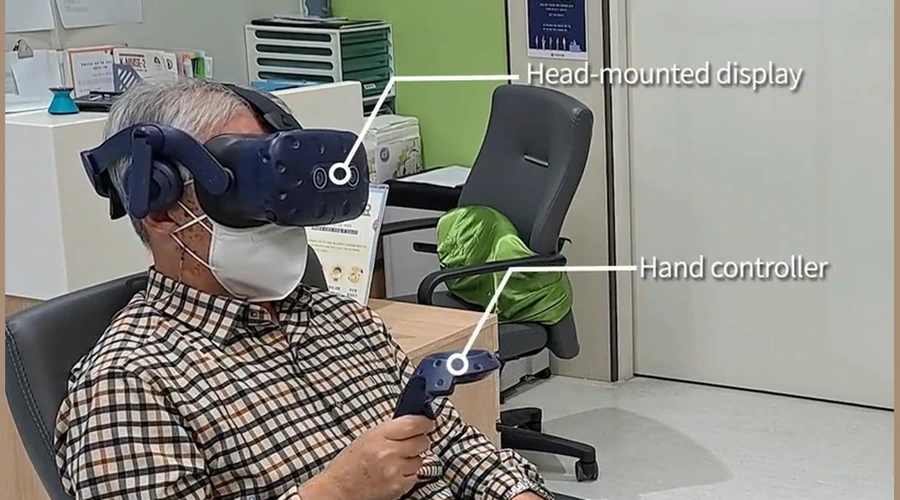
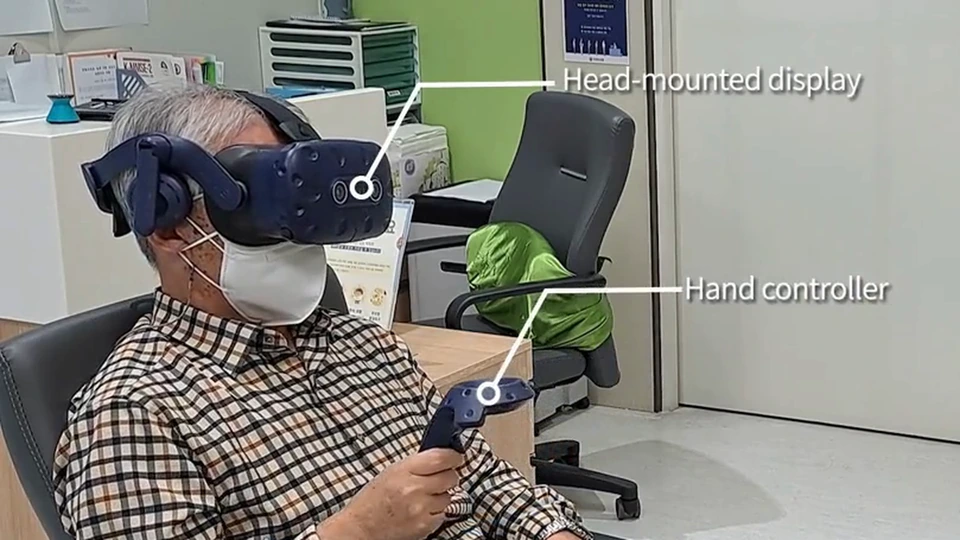
Give the home cards the shape of the pictures in them
The card image box was a fixed 124px tall whatever the column was wide. At three
columns that is a slot of about 327 by 124 - two and a half to one - holding a
16:9 picture, and object-fit: cover did what it is supposed to do: filled the
slot and threw away the top and bottom of every one. That is why an equation
appeared with its first line missing and the report showed a band of two cards
with their headings gone.

The slot takes aspect-ratio 16/9 now and its height follows the column, so the
picture fits it exactly and there is nothing left to crop. The thumbnails are
generated at 960x540 rather than 900x500 for the same reason - at 1.8 against
1.778 the browser was still shaving a sliver off the sides.

I had been fixing this in the wrong place: the last two rounds re-cut the source
images to stop the cards looking broken, when the cards were cropping whatever
they were given.

diff --git a/index.html b/index.html
@@ -22,7 +22,7 @@
   <meta name="twitter:card" content="summary_large_image">
   <link rel="preload" href="/assets/fonts/inter-latin.woff2" as="font" type="font/woff2" crossorigin>
   <link rel="preload" href="/assets/fonts/newsreader-latin.woff2" as="font" type="font/woff2" crossorigin>
-  <link rel="stylesheet" href="/assets/site.css?v=9452ece1">
+  <link rel="stylesheet" href="/assets/site.css?v=fbcbad25">
   <link rel="stylesheet" href="/assets/demos/watch.css?v=a7e0fa1c">
   <script src="/assets/site.js?v=b06142de" defer></script>
   <script type="application/ld+json">{"@context":"https://schema.org","@type":"Person","name":"Bogyeom Park","alternateName":["박보겸","Hyobin Park"],"jobTitle":"Ph.D. Student","identifier":{"@type":"PropertyValue","propertyID":"ORCID","value":"0009-0005-3046-9621"},"affiliation":{"@type":"Organization","name":"Seoul National University of Science and Technology","department":"Human-centered Artificial Intelligence Lab"},"worksFor":{"@type":"Organization","name":"Seoul National University of Science and Technology"},"url":"https://bogyeompark.github.io/","image":"https://bogyeompark.github.io/assets/og-card.jpg","email":"mailto:bogyeom@seoultech.ac.kr","sameAs":["https://scholar.google.com/citations?user=HusX3nUAAAAJ&hl=en","https://orcid.org/0009-0005-3046-9621","https://github.com/BogyeomPark"],"knowsAbout":["Agentic AI","Human-AI Interaction","AI in Education","Learning Analytics","Accessibility"]}</script>
@@ -108,17 +108,17 @@
         <div class="section-heading"><h2>Projects</h2><a href="/projects/">All projects &rarr;</a></div>
         <div class="work-grid">
           <a class="work" href="/projects/#ai-tutoring">
-            <img src="/assets/projects/ai-tutoring-cluney/thumb.webp" width="900" height="500" loading="lazy" decoding="async" alt="The tutoring system's problem view with a student's handwritten solution">
+            <img src="/assets/projects/ai-tutoring-cluney/thumb.webp" width="960" height="540" loading="lazy" decoding="async" alt="The tutoring system's problem view with a student's handwritten solution">
             <span class="work-venue">Tutorus Labs &middot; 2026</span>
             <h3>Usability Evaluation of a Compound AI Tutoring System</h3>
           </a>
           <a class="work" href="/projects/#agentic-career">
-            <img src="/assets/projects/agentic-career-keris/thumb.webp" width="900" height="500" loading="lazy" decoding="async" alt="Two career directions inferred from a student's school record">
+            <img src="/assets/projects/agentic-career-keris/thumb.webp" width="960" height="540" loading="lazy" decoding="async" alt="Two career directions inferred from a student's school record">
             <span class="work-venue">KERIS &middot; 2025</span>
             <h3>Agentic AI for Personalized Career, Admission, and Counseling Support</h3>
           </a>
           <a class="work" href="/projects/#vr-dementia">
-            <img src="/assets/projects/vr-dementia-biomarker/thumb.webp" width="900" height="500" loading="lazy" decoding="async" alt="A participant seated in the virtual kiosk task wearing a head-mounted display">
+            <img src="/assets/projects/vr-dementia-biomarker/thumb.webp" width="960" height="540" loading="lazy" decoding="async" alt="A participant seated in the virtual kiosk task wearing a head-mounted display">
             <span class="work-venue">Ministry of Science and ICT &middot; 2021&ndash;2024</span>
             <h3>Digital Biomarkers for Early Dementia Diagnosis from VR Daily-Living Data</h3>
           </a>

diff --git a/404.html b/404.html
@@ -21,7 +21,7 @@
   <meta name="twitter:card" content="summary_large_image">
   <link rel="preload" href="/assets/fonts/inter-latin.woff2" as="font" type="font/woff2" crossorigin>
   <link rel="preload" href="/assets/fonts/newsreader-latin.woff2" as="font" type="font/woff2" crossorigin>
-  <link rel="stylesheet" href="/assets/site.css?v=9452ece1">
+  <link rel="stylesheet" href="/assets/site.css?v=fbcbad25">
   <script data-goatcounter="https://bogyeompark.goatcounter.com/count" async src="https://gc.zgo.at/count.js"></script>
 </head>
 <body><main style="max-width:720px;margin:0 auto;padding:80px 24px"><p class="eyebrow">404</p><div class="page-header"><h1>Page not found.</h1><p class="lead">The page may have moved as this website was reorganized.</p></div><div class="button-row"><a class="button" href="/">Return home</a><a class="button secondary" href="/publications/">All publications &rarr;</a></div></main></body>

diff --git a/assets/site.css b/assets/site.css
@@ -279,10 +279,15 @@ main { min-width: 0; padding: 51px 0 66px 56px; }
 }
 /* These were drawn cards, which had to be shown whole; they are photographs of
    the systems now, so the card crops to fill instead of letterboxing them. */
+/* The box used to be 124px tall whatever the column width, so at three columns
+   it was a 2.6:1 slot holding a 16:9 picture and cover cropped the top and
+   bottom off every one of them. The slot takes the picture's ratio instead, and
+   then there is nothing to crop. */
 .work img {
   display: block;
   width: 100%;
-  height: 124px;
+  height: auto;
+  aspect-ratio: 16 / 9;
   object-fit: cover;
   border: 1px solid var(--line);
   border-radius: 10px;

diff --git a/publications/multimodal-biomarkers-jmir/index.html b/publications/multimodal-biomarkers-jmir/index.html
@@ -36,7 +36,7 @@
   <meta name="citation_pdf_url" content="https://bogyeompark.github.io/assets/publications/multimodal-biomarkers-jmir/paper.pdf">
   <link rel="preload" href="/assets/fonts/inter-latin.woff2" as="font" type="font/woff2" crossorigin>
   <link rel="preload" href="/assets/fonts/newsreader-latin.woff2" as="font" type="font/woff2" crossorigin>
-  <link rel="stylesheet" href="/assets/site.css?v=9452ece1">
+  <link rel="stylesheet" href="/assets/site.css?v=fbcbad25">
   <script src="/assets/site.js?v=b06142de" defer></script>
   <script data-goatcounter="https://bogyeompark.goatcounter.com/count" async src="https://gc.zgo.at/count.js"></script>
 </head>

diff --git a/publications/self-disclosure-chatbot/index.html b/publications/self-disclosure-chatbot/index.html
@@ -32,7 +32,7 @@
   <meta name="citation_pdf_url" content="https://bogyeompark.github.io/assets/publications/self-disclosure-chatbot/paper.pdf">
   <link rel="preload" href="/assets/fonts/inter-latin.woff2" as="font" type="font/woff2" crossorigin>
   <link rel="preload" href="/assets/fonts/newsreader-latin.woff2" as="font" type="font/woff2" crossorigin>
-  <link rel="stylesheet" href="/assets/site.css?v=9452ece1">
+  <link rel="stylesheet" href="/assets/site.css?v=fbcbad25">
   <script src="/assets/site.js?v=b06142de" defer></script>
   <script data-goatcounter="https://bogyeompark.goatcounter.com/count" async src="https://gc.zgo.at/count.js"></script>
 </head>

diff --git a/publications/sdt-career-chatbot/index.html b/publications/sdt-career-chatbot/index.html
@@ -32,7 +32,7 @@
   <meta name="citation_pdf_url" content="https://bogyeompark.github.io/assets/publications/sdt-career-chatbot/paper.pdf">
   <link rel="preload" href="/assets/fonts/inter-latin.woff2" as="font" type="font/woff2" crossorigin>
   <link rel="preload" href="/assets/fonts/newsreader-latin.woff2" as="font" type="font/woff2" crossorigin>
-  <link rel="stylesheet" href="/assets/site.css?v=9452ece1">
+  <link rel="stylesheet" href="/assets/site.css?v=fbcbad25">
   <script src="/assets/site.js?v=b06142de" defer></script>
   <script data-goatcounter="https://bogyeompark.goatcounter.com/count" async src="https://gc.zgo.at/count.js"></script>
 </head>

diff --git a/publications/debate-chatbot/index.html b/publications/debate-chatbot/index.html
@@ -31,7 +31,7 @@
   <meta name="citation_pdf_url" content="https://bogyeompark.github.io/assets/publications/debate-chatbot/paper.pdf">
   <link rel="preload" href="/assets/fonts/inter-latin.woff2" as="font" type="font/woff2" crossorigin>
   <link rel="preload" href="/assets/fonts/newsreader-latin.woff2" as="font" type="font/woff2" crossorigin>
-  <link rel="stylesheet" href="/assets/site.css?v=9452ece1">
+  <link rel="stylesheet" href="/assets/site.css?v=fbcbad25">
   <script src="/assets/site.js?v=b06142de" defer></script>
   <script data-goatcounter="https://bogyeompark.goatcounter.com/count" async src="https://gc.zgo.at/count.js"></script>
 </head>

diff --git a/publications/vr-mri-chi/index.html b/publications/vr-mri-chi/index.html
@@ -34,7 +34,7 @@
   <meta name="citation_pdf_url" content="https://bogyeompark.github.io/assets/publications/vr-mri-chi/paper.pdf">
   <link rel="preload" href="/assets/fonts/inter-latin.woff2" as="font" type="font/woff2" crossorigin>
   <link rel="preload" href="/assets/fonts/newsreader-latin.woff2" as="font" type="font/woff2" crossorigin>
-  <link rel="stylesheet" href="/assets/site.css?v=9452ece1">
+  <link rel="stylesheet" href="/assets/site.css?v=fbcbad25">
   <script src="/assets/site.js?v=b06142de" defer></script>
   <script data-goatcounter="https://bogyeompark.goatcounter.com/count" async src="https://gc.zgo.at/count.js"></script>
 </head>

diff --git a/demos/self-disclosure/index.html b/demos/self-disclosure/index.html
@@ -22,7 +22,7 @@
   <meta name="twitter:card" content="summary_large_image">
   <link rel="preload" href="/assets/fonts/inter-latin.woff2" as="font" type="font/woff2" crossorigin>
   <link rel="preload" href="/assets/fonts/newsreader-latin.woff2" as="font" type="font/woff2" crossorigin>
-  <link rel="stylesheet" href="/assets/site.css?v=9452ece1">
+  <link rel="stylesheet" href="/assets/site.css?v=fbcbad25">
   <link rel="stylesheet" href="/assets/demos/self-disclosure.css?v=c752386e">
   <link rel="stylesheet" href="/assets/demos/watch.css?v=a7e0fa1c">
   <script src="/assets/demos/self-disclosure.js?v=f2ed0cef" defer></script>

diff --git a/publications/counterfactual-prefactual-hci2023/index.html b/publications/counterfactual-prefactual-hci2023/index.html
@@ -30,7 +30,7 @@
   <meta name="citation_pdf_url" content="https://bogyeompark.github.io/assets/publications/counterfactual-prefactual-hci2023/paper.pdf">
   <link rel="preload" href="/assets/fonts/inter-latin.woff2" as="font" type="font/woff2" crossorigin>
   <link rel="preload" href="/assets/fonts/newsreader-latin.woff2" as="font" type="font/woff2" crossorigin>
-  <link rel="stylesheet" href="/assets/site.css?v=9452ece1">
+  <link rel="stylesheet" href="/assets/site.css?v=fbcbad25">
   <script data-goatcounter="https://bogyeompark.goatcounter.com/count" async src="https://gc.zgo.at/count.js"></script>
 </head>
 <body>

diff --git a/demos/kiosk/index.html b/demos/kiosk/index.html
@@ -22,7 +22,7 @@
   <meta name="twitter:card" content="summary_large_image">
   <link rel="preload" href="/assets/fonts/inter-latin.woff2" as="font" type="font/woff2" crossorigin>
   <link rel="preload" href="/assets/fonts/newsreader-latin.woff2" as="font" type="font/woff2" crossorigin>
-  <link rel="stylesheet" href="/assets/site.css?v=9452ece1">
+  <link rel="stylesheet" href="/assets/site.css?v=fbcbad25">
   <link rel="stylesheet" href="/assets/demos/kiosk.css?v=b1335649">
   <link rel="stylesheet" href="/assets/demos/watch.css?v=a7e0fa1c">
   <script src="/assets/demos/kiosk-en.js?v=f4904a53" defer></script>

diff --git a/publications/self-disclosure-hci2025/index.html b/publications/self-disclosure-hci2025/index.html
@@ -31,7 +31,7 @@
   <meta name="citation_pdf_url" content="https://bogyeompark.github.io/assets/publications/self-disclosure-hci2025/paper.pdf">
   <link rel="preload" href="/assets/fonts/inter-latin.woff2" as="font" type="font/woff2" crossorigin>
   <link rel="preload" href="/assets/fonts/newsreader-latin.woff2" as="font" type="font/woff2" crossorigin>
-  <link rel="stylesheet" href="/assets/site.css?v=9452ece1">
+  <link rel="stylesheet" href="/assets/site.css?v=fbcbad25">
   <script data-goatcounter="https://bogyeompark.goatcounter.com/count" async src="https://gc.zgo.at/count.js"></script>
 </head>
 <body>
